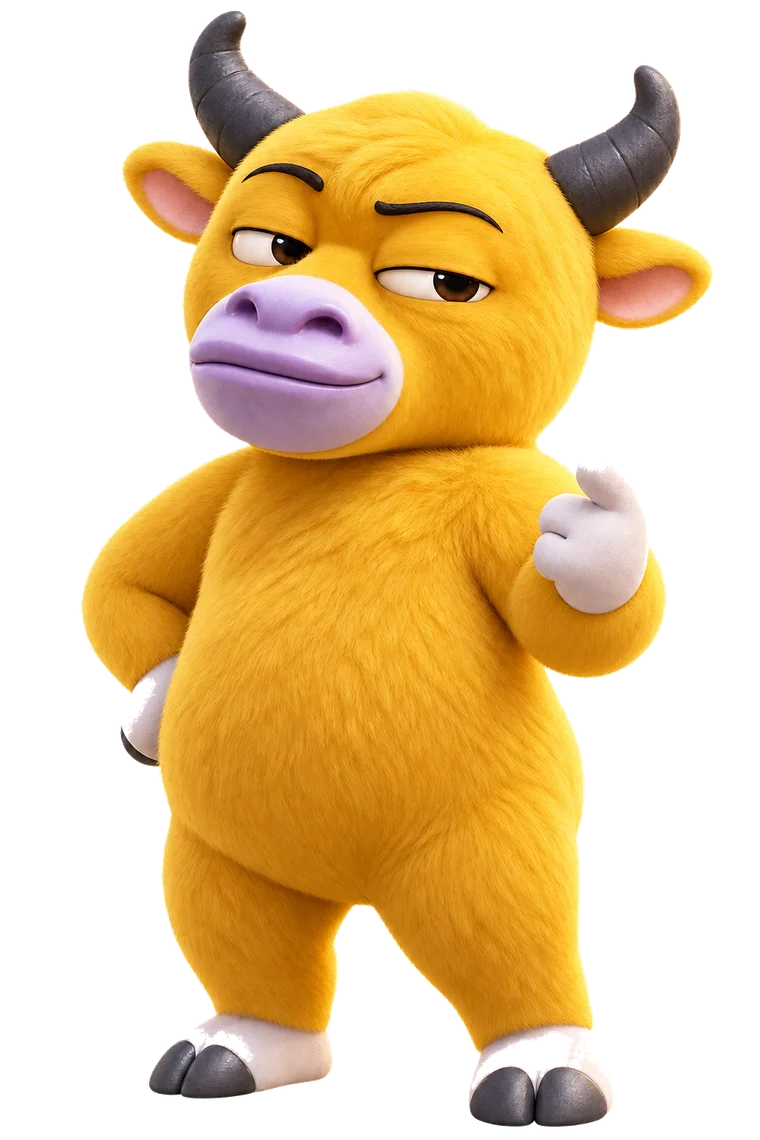
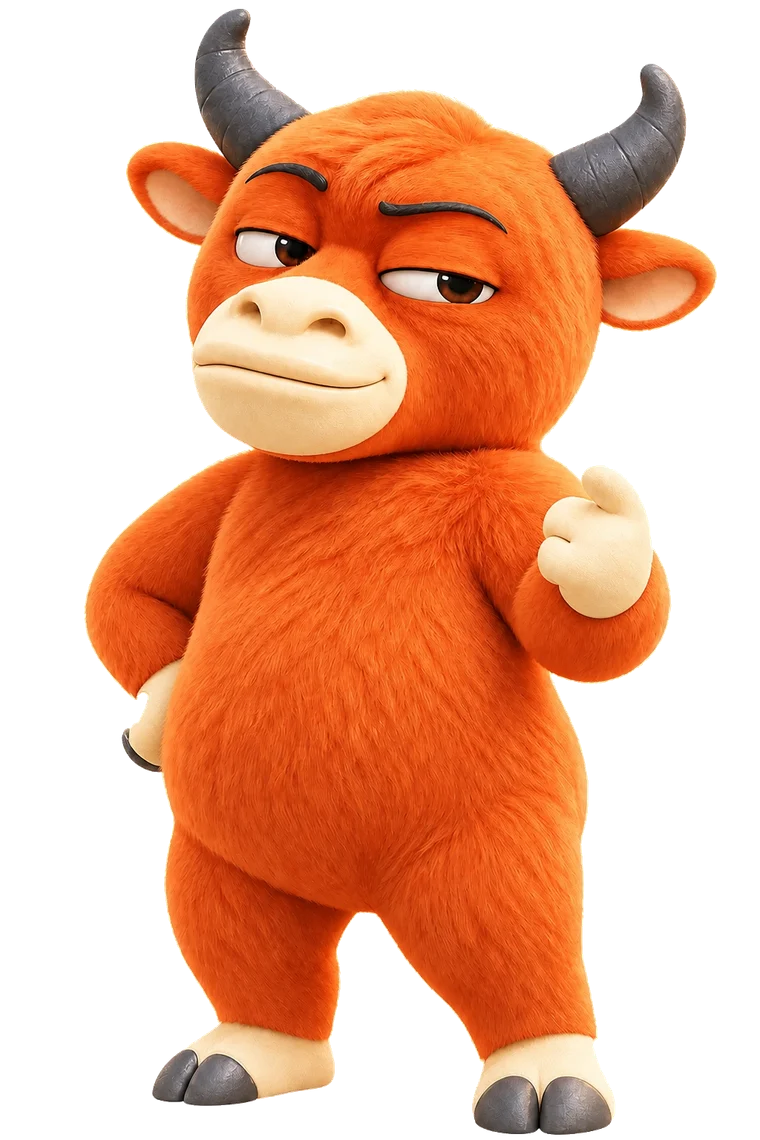
Adjust Niu Lai character color

diff --git a/README.md b/README.md
@@ -4,7 +4,7 @@
 
 ## 素材说明
 
-- Q 版牛来形象：基于用户提供参考图重新生成的原创网页资产，页面使用 `public/images/niulai-q.webp`。
+- 橙色 Q 版牛来形象：基于用户提供参考图重新生成的原创网页资产，页面使用 `public/images/niulai-q.webp`。
 - 牛叫声：`public/sounds/cow-moos-cc0.mp3`，来源 BigSoundBank Cow Moos #1，CC0 public domain。
 - 妈妈喊“牛来”：运行时使用浏览器 SpeechSynthesis 生成，避免嵌入电影原声片段。
 
